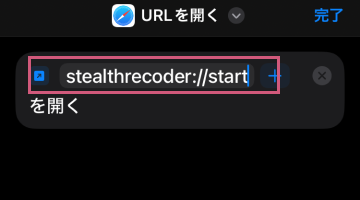
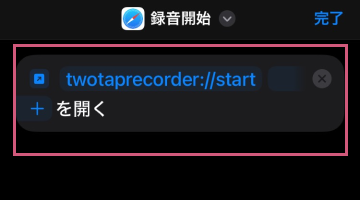
Stelthという表現消す 2 Tap Recoderに変更

diff --git a/StealthRecorder/App.tsx b/StealthRecorder/App.tsx
@@ -27,7 +27,7 @@ LogBox.ignoreLogs([
   'Non-serializable values were found in the navigation state',
 ]);
 
-const BACK_TAP_STORAGE_KEY = 'stealthrecorder:hasAcceptedBackTap';
+const BACK_TAP_STORAGE_KEY = 'twotaprecorder:hasAcceptedBackTap';
 
 type RecordingFile = {
   name: string;
@@ -137,18 +137,14 @@ const App = (): React.JSX.Element => {
     }
   }, [permissionChecked]);
 
-  const handleOnboardingChoice = useCallback(
-    async (accepted: boolean) => {
-      setShowOnboarding(false);
-      if (!accepted) {
-        return;
-      }
-      await AsyncStorage.setItem(BACK_TAP_STORAGE_KEY, 'accepted');
-      setGuideExpanded(true);
-      ensurePermission();
-    },
-    [ensurePermission],
-  );
+  const handleOnboardingContinue = useCallback(async () => {
+    // 審査要件: 権限要求の前に「閉じる/No」で抜けられる導線を置かない
+    // → このモーダルは「続ける」から必ず権限要求へ進む
+    setShowOnboarding(false);
+    await AsyncStorage.setItem(BACK_TAP_STORAGE_KEY, 'accepted');
+    setGuideExpanded(true);
+    await ensurePermission();
+  }, [ensurePermission]);
 
   const openShortcuts = useCallback(async () => {
     const shortcutsURL = 'shortcuts://';
@@ -219,8 +215,8 @@ const App = (): React.JSX.Element => {
     () => [
       '設定アプリ > アクセシビリティ > タッチ > 背面タップ を開きます。',
       '「ダブルタップ」に「ショートカット」を割り当てます。',
-      'ショートカットで「URLを開く」を追加し、URLに stealthrecorder://start を入力します。',
-      '停止用に stealthrecorder://stop を割り当てたショートカットを作ると便利です。',
+      'ショートカットで「URLを開く」を追加し、URLに twotaprecorder://start を入力します。',
+      '停止用に twotaprecorder://stop を割り当てたショートカットを作ると便利です。',
       '録音停止はこのアプリの「録音停止」ボタンで行います。',
     ],
     [],
@@ -253,7 +249,7 @@ const App = (): React.JSX.Element => {
           '5. 名前を「録音開始」にして完了',
         actionLabel: 'ショートカットを開く',
         onAction: openShortcuts,
-        copyableText: 'stealthrecorder://start',
+        copyableText: 'twotaprecorder://start',
         image: require('./assets/instructions/how to2.png'),
       },
       {
@@ -289,8 +285,8 @@ const App = (): React.JSX.Element => {
         subtitle: '保存した音声を再生する',
         description:
           '1.「ファイル」アプリを開く\n' +
-          '2.「このiPhone内」→「StealthRecorder」\n' +
-          '3. stealth-日時.m4a が録音ファイル\n' +
+          '2.「このiPhone内」→「2 Tap Recorder」\n' +
+          '3. recording-日時.m4a が録音ファイル\n' +
           '4. タップして再生できます\n\n' +
           '※ファイル名の日時は録音開始時刻です',
         actionLabel: 'ファイルを開く',
@@ -347,7 +343,7 @@ const App = (): React.JSX.Element => {
           </View>
 
           <View style={styles.settingSection}>
-            <Text style={styles.settingTitle}>ステルスレコーダーの使い方</Text>
+            <Text style={styles.settingTitle}>背面タップ録音アプリの使い方</Text>
             <View style={styles.settingList}>
               {settingSlides.map(slide => (
                 <View key={slide.id} style={styles.settingItem}>
@@ -385,29 +381,26 @@ const App = (): React.JSX.Element => {
         </ScrollView>
       </SafeAreaView>
 
-      <Modal visible={showOnboarding} animationType="fade" transparent>
+      <Modal
+        visible={showOnboarding}
+        animationType="fade"
+        transparent
+        onRequestClose={() => {
+          // Android back で閉じられるのを防ぐ（要件: 事前メッセージから離脱できない導線）
+        }}>
         <View style={styles.modalBackdrop}>
           <View style={styles.modalContent}>
             <Text style={styles.modalTitle}>
-              背面ダブルタップを有効にしますか？
+              マイク権限の確認
             </Text>
             <Text style={styles.modalDescription}>
-              ステルスレコーダーを使用するには、背面2回タップで録音を開始できるようショートカットを設定する必要があります。
+              録音機能を使用するため、次の画面でマイクへのアクセス許可をお願いします。
             </Text>
             <View style={styles.modalActions}>
               <Pressable
-                style={[
-                  styles.modalButton,
-                  styles.modalButtonSecondary,
-                  styles.modalButtonSpacing,
-                ]}
-                onPress={() => handleOnboardingChoice(false)}>
-                <Text style={styles.modalButtonSecondaryText}>No</Text>
-              </Pressable>
-              <Pressable
                 style={[styles.modalButton, styles.modalButtonPrimary]}
-                onPress={() => handleOnboardingChoice(true)}>
-                <Text style={styles.modalButtonPrimaryText}>Yes</Text>
+                onPress={handleOnboardingContinue}>
+                <Text style={styles.modalButtonPrimaryText}>続ける</Text>
               </Pressable>
             </View>
           </View>

diff --git a/StealthRecorder/ios/StealthRecorder/RecorderManager.swift b/StealthRecorder/ios/StealthRecorder/RecorderManager.swift
@@ -74,7 +74,7 @@ public class RecorderManager: NSObject {
       return
     }
     
-    NSLog("[StealthRecorder] Documents directory: %@", documentsURL.path)
+    NSLog("[Recorder] Documents directory: %@", documentsURL.path)
     
     do {
       let files = try fileManager.contentsOfDirectory(at: documentsURL, includingPropertiesForKeys: [.creationDateKey, .fileSizeKey], options: [])
@@ -93,41 +93,41 @@ public class RecorderManager: NSObject {
         }
         .sorted { ($0["date"] as? String ?? "") > ($1["date"] as? String ?? "") }
       
-      NSLog("[StealthRecorder] Found %d audio files", audioFiles.count)
+      NSLog("[Recorder] Found %d audio files", audioFiles.count)
       resolve(audioFiles)
     } catch {
-      NSLog("[StealthRecorder] Error listing files: %@", error.localizedDescription)
+      NSLog("[Recorder] Error listing files: %@", error.localizedDescription)
       resolve([])
     }
   }
 
   @objc public func handleShortcut(withAction action: String?) {
     guard let action else {
-      NSLog("[StealthRecorder] handleShortcut: action is nil")
+      NSLog("[Recorder] handleShortcut: action is nil")
       return
     }
-    NSLog("[StealthRecorder] handleShortcut: action = %@", action)
+    NSLog("[Recorder] handleShortcut: action = %@", action)
     switch action.lowercased() {
     case "start":
       // マイク権限を確認してから録音開始
       RecorderManager.audioSession.requestRecordPermission { granted in
-        NSLog("[StealthRecorder] Permission granted: %@", granted ? "YES" : "NO")
+        NSLog("[Recorder] Permission granted: %@", granted ? "YES" : "NO")
         if granted {
           DispatchQueue.main.async {
             do {
               let fileName = try RecorderManager.beginRecording()
-              NSLog("[StealthRecorder] Recording started: %@", fileName)
+              NSLog("[Recorder] Recording started: %@", fileName)
             } catch {
-              NSLog("[StealthRecorder] Recording failed: %@", error.localizedDescription)
+              NSLog("[Recorder] Recording failed: %@", error.localizedDescription)
             }
           }
         }
       }
     case "stop":
       let result = RecorderManager.stopRecordingInternal()
-      NSLog("[StealthRecorder] Recording stopped: %@", result)
+      NSLog("[Recorder] Recording stopped: %@", result)
     default:
-      NSLog("[StealthRecorder] Unknown action: %@", action)
+      NSLog("[Recorder] Unknown action: %@", action)
       break
     }
   }
@@ -177,7 +177,7 @@ public class RecorderManager: NSObject {
       throw NSError(domain: "RecorderManager", code: 0, userInfo: [NSLocalizedDescriptionKey: "Documentsディレクトリを取得できません"])
     }
     let timestamp = fileDateFormatter.string(from: Date())
-    let filename = "stealth-\(timestamp).m4a"
+    let filename = "recording-\(timestamp).m4a"
     return directory.appendingPathComponent(filename)
   }
 

diff --git a/StealthRecorder/ios/StealthRecorder/AppDelegate.mm b/StealthRecorder/ios/StealthRecorder/AppDelegate.mm
@@ -8,7 +8,8 @@
 
 - (BOOL)application:(UIApplication *)application didFinishLaunchingWithOptions:(NSDictionary *)launchOptions
 {
-  self.moduleName = @"StealthRecorder";
+  // React Native root component name (AppRegistry.registerComponent)
+  self.moduleName = @"BackTapRecorder";
   // You can add your custom initial props in the dictionary below.
   // They will be passed down to the ViewController used by React Native.
   self.initialProps = @{};
@@ -34,7 +35,7 @@
             openURL:(NSURL *)url
             options:(NSDictionary<UIApplicationOpenURLOptionsKey,id> *)options
 {
-  if ([[url.scheme lowercaseString] isEqualToString:@"stealthrecorder"]) {
+  if ([[url.scheme lowercaseString] isEqualToString:@"twotaprecorder"]) {
     NSString *action = url.host ?: url.lastPathComponent;
     if (action.length == 0 && url.pathComponents.count > 1) {
       action = url.pathComponents[1];
